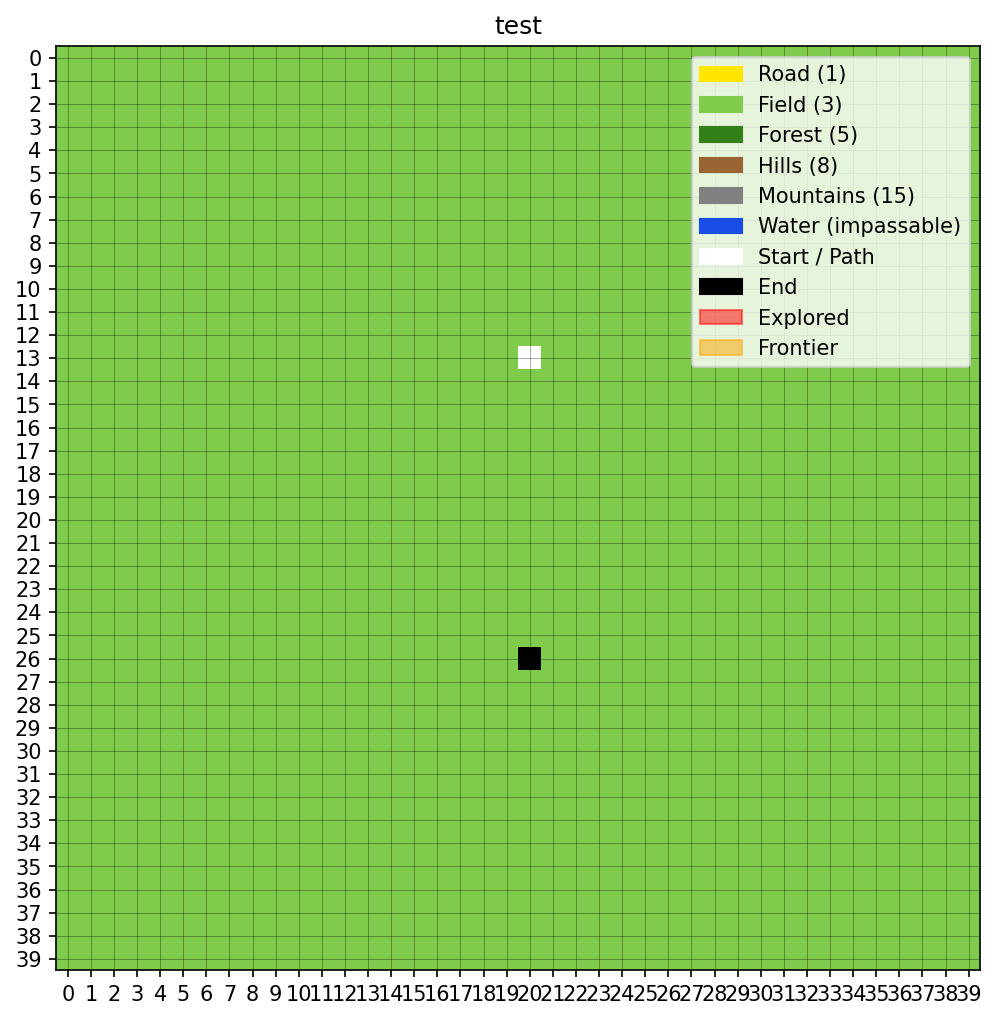
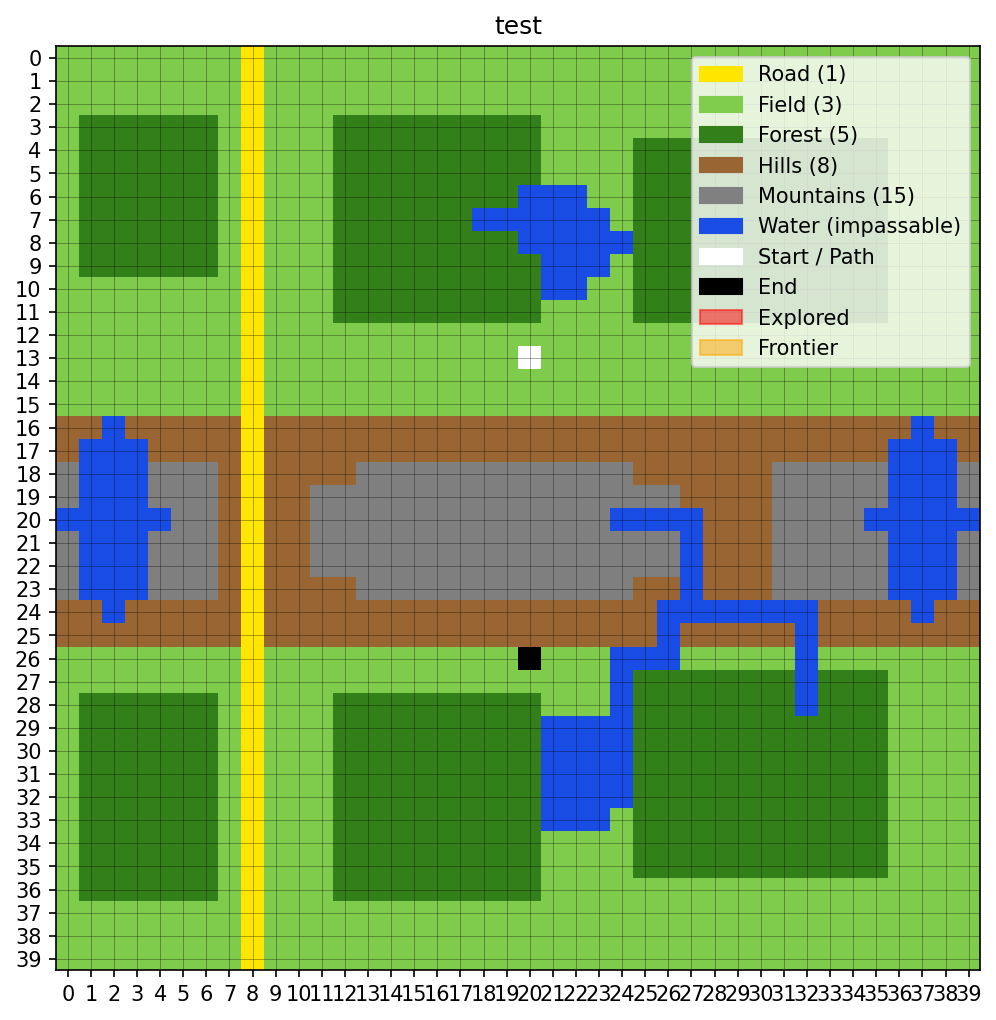
remove unneeded files

diff --git a/main.py b/main.py
@@ -5,3 +5,15 @@ grid, start, end = load_map("maps/map1_stupid.txt")
 display(grid, closed=set(), open_list=set(), path=[], title="test")
 # debugging print
 print(start, end)
+
+grid, start, end = load_map("maps/map2_simple.txt")
+
+display(grid, closed=set(), open_list=set(), path=[], title="test")
+# debugging print
+print(start, end)
+
+grid, start, end = load_map("maps/map3_complex.txt")
+
+display(grid, closed=set(), open_list=set(), path=[], title="test")
+# debugging print
+print(start, end)